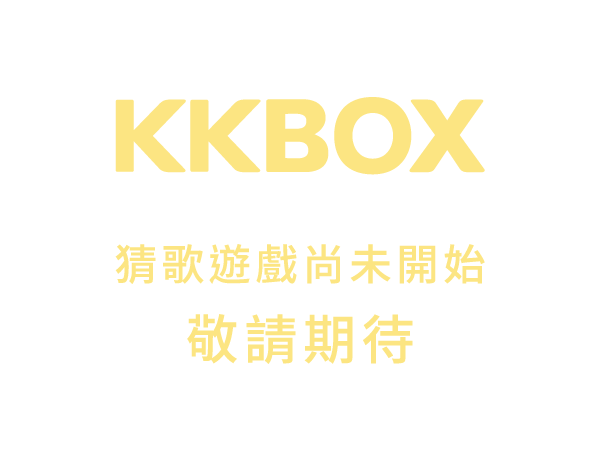
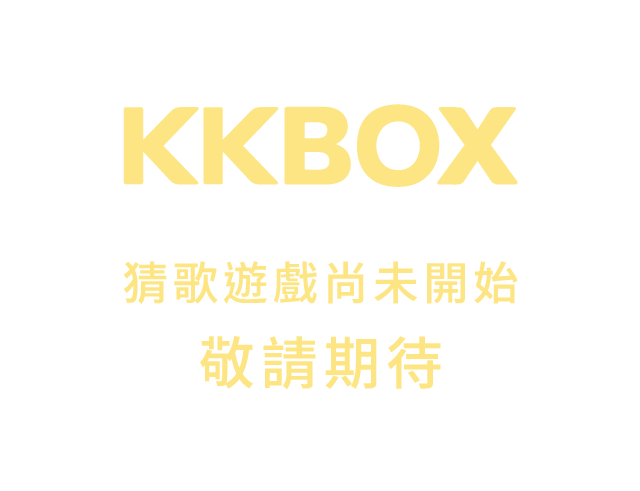
k

diff --git a/kkbox/index.html b/kkbox/index.html
@@ -16,15 +16,15 @@ if(typeof Muse == "undefined") window.Muse = {}; window.Muse.assets = {"required
   <title>Home</title>
   <!-- CSS -->
   <link rel="stylesheet" type="text/css" href="css/site_global.css?crc=444006867"/>
-  <link rel="stylesheet" type="text/css" href="css/index.css?crc=4148861268" id="pagesheet"/>
+  <link rel="stylesheet" type="text/css" href="css/index.css?crc=4096635404" id="pagesheet"/>
    </head>
  <body>
 
   <div class="clearfix" id="page"><!-- column -->
-   <div class="clip_frame colelem" id="u94"><!-- image -->
-    <img class="block" id="u94_img" src="images/not-yet.png?crc=4083691068" data-hidpi-src="images/not-yet_2x.png?crc=4083691068" alt="" width="300" height="230"/>
+   <div class="clip_frame colelem" id="u118"><!-- image -->
+    <img class="block" id="u118_img" src="images/not-yet.png?crc=4008179473" alt="" width="640" height="491"/>
    </div>
-   <div class="verticalspacer" data-offset-top="372" data-content-above-spacer="372" data-content-below-spacer="128"></div>
+   <div class="verticalspacer" data-offset-top="553" data-content-above-spacer="553" data-content-below-spacer="62"></div>
   </div>
   <!-- Other scripts -->
   <script type="text/javascript">

diff --git a/kkbox/css/index.css b/kkbox/css/index.css
@@ -1,1 +1,1 @@
-.version.index{color:#0000F7;background-color:#4A9954;}#muse_css_mq{background-color:#FFFFFF;}#page{z-index:1;width:300px;min-height:230px;background-image:none;border-width:0px;border-color:#000000;background-color:transparent;margin-left:auto;margin-right:auto;padding:142px 170px 128px;}#u94{z-index:2;width:300px;background-color:transparent;position:relative;}.css_verticalspacer .verticalspacer{height:calc(100vh - 500px);}.html{background-color:#E83625;}body{position:relative;min-width:640px;}
+.version.index{color:#0000F4;background-color:#2DB20C;}#muse_css_mq{background-color:#FFFFFF;}#page{z-index:1;width:640px;min-height:376px;background-image:none;border-width:0px;border-color:#000000;background-color:transparent;padding-top:62px;padding-bottom:62px;margin-left:auto;margin-right:auto;}#u118{z-index:2;width:640px;background-color:transparent;position:relative;}.css_verticalspacer .verticalspacer{height:calc(100vh - 615px);}.html{background-color:#E83625;}body{position:relative;min-width:640px;}
